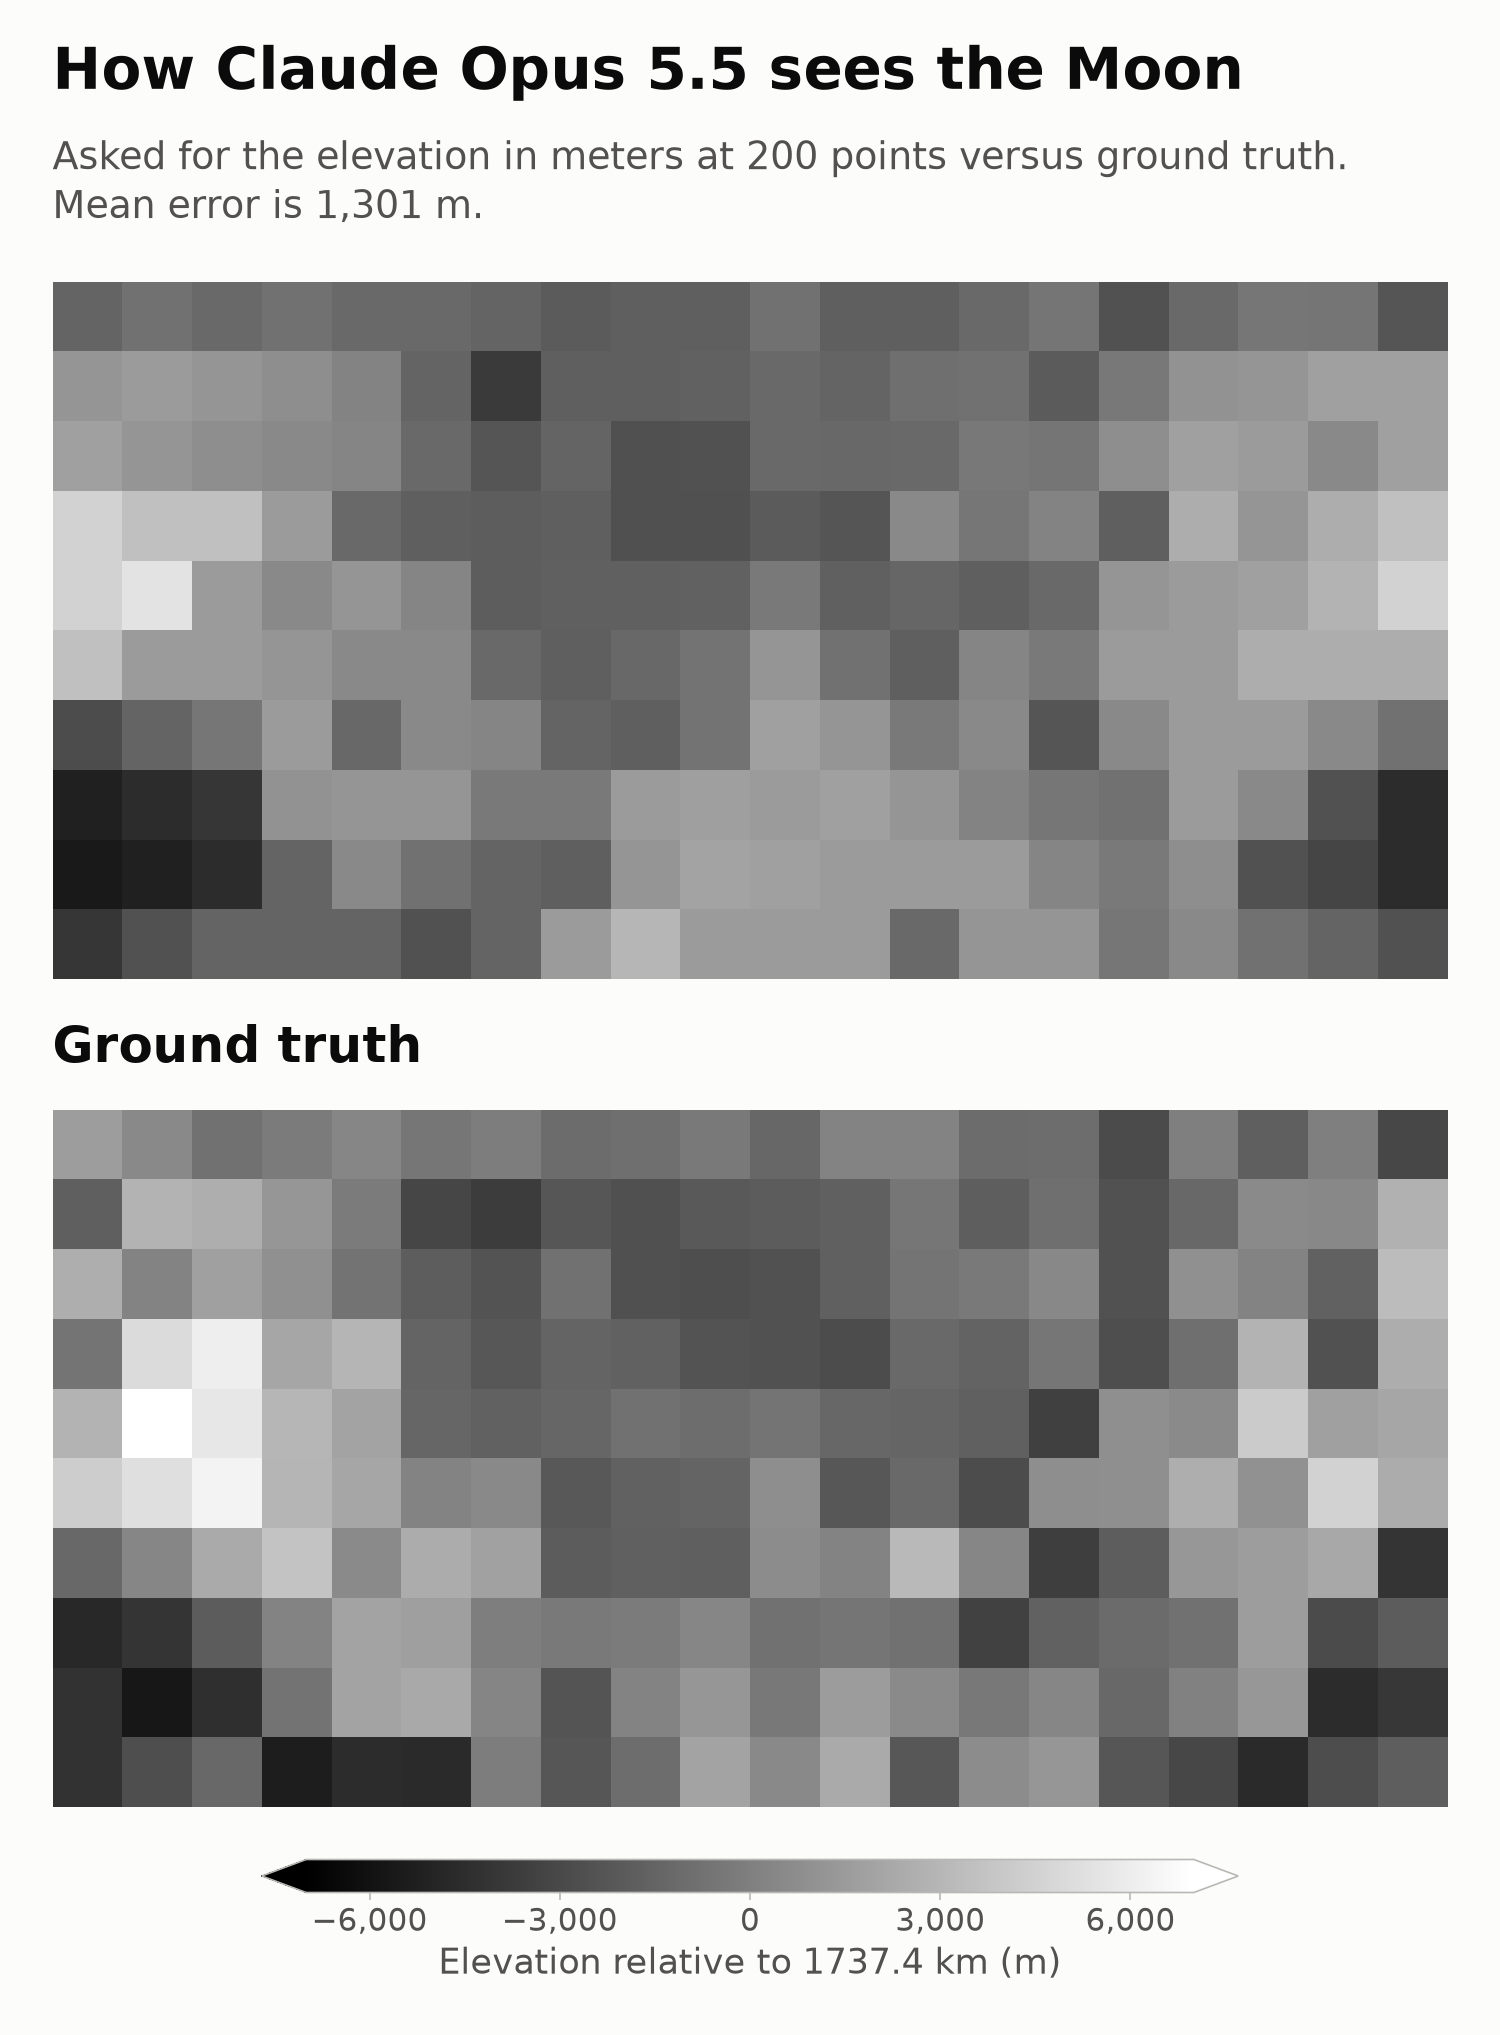
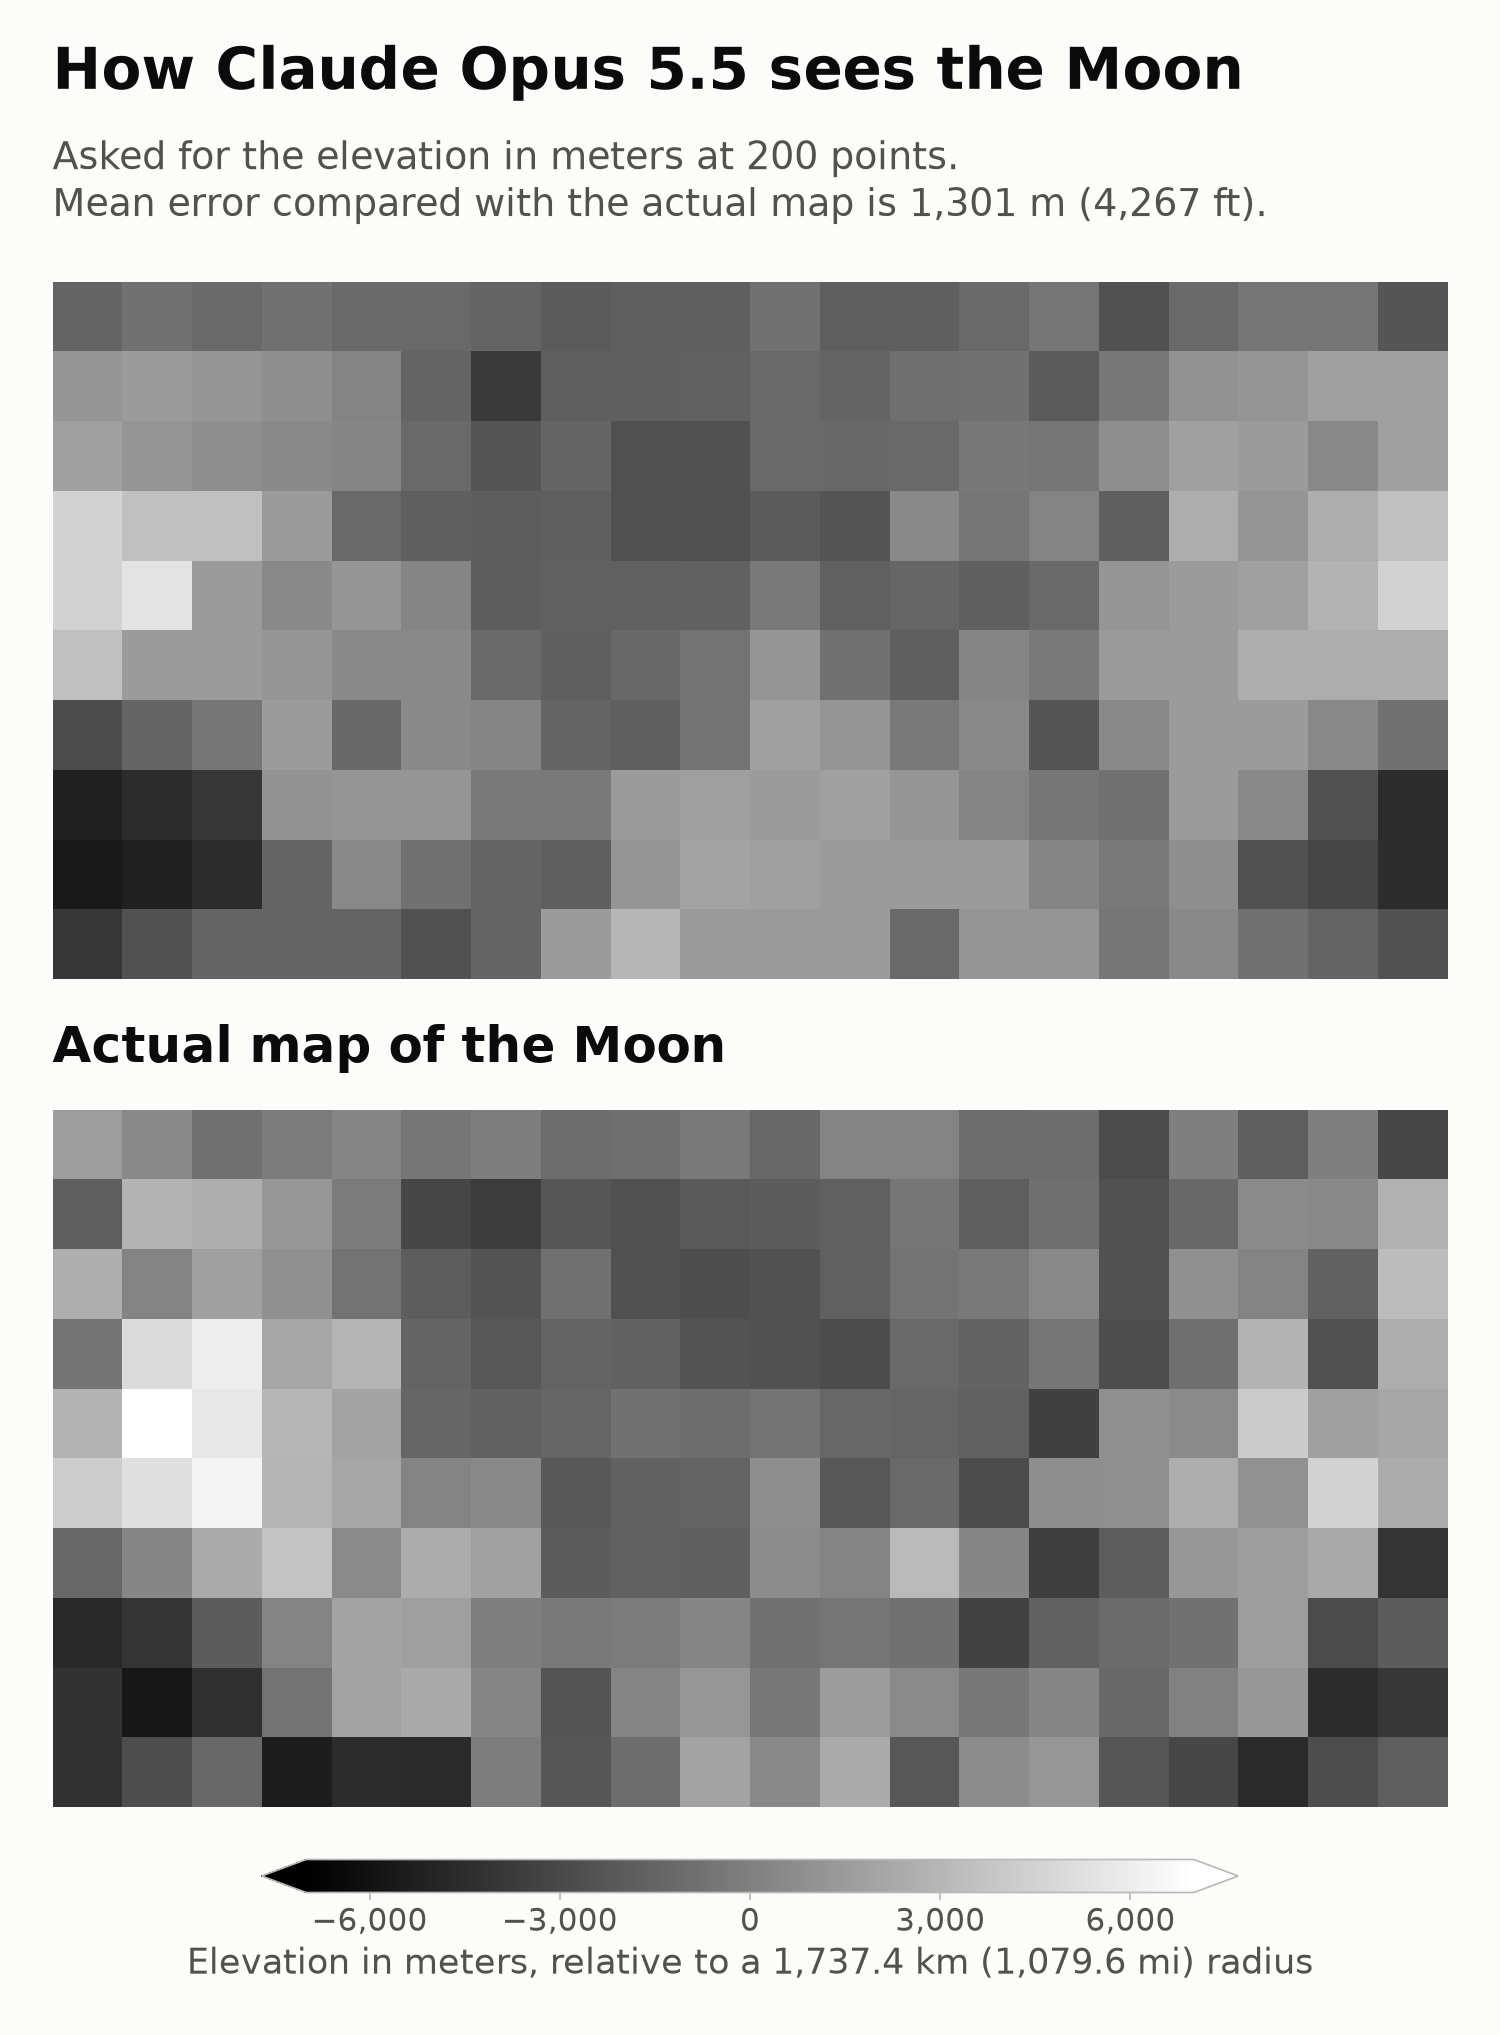
Shareable images: actual map label, feet and miles for US readers

diff --git a/moonmapbench/report.py b/moonmapbench/report.py
@@ -31,6 +31,9 @@ from moonmapbench.query import load_responses, run_dir
 # Fixed color range for every map and every run, so images are comparable.
 # About the 0.5th..99.5th area percentile of LOLA heights is -5.7..+6.8 km.
 ELEV_VMIN, ELEV_VMAX = -7000, 7000
+METERS_PER_FOOT = 0.3048  # for US readers of the shareable image
+KM_PER_MILE = 1.609344
+REFERENCE_RADIUS_KM = 1737.4
 SURFACE = "#fcfcfb"
 TEXT_PRIMARY = "#0b0b0b"
 TEXT_SECONDARY = "#52514e"
@@ -69,11 +72,12 @@ def _draw_map(ax: plt.Axes, image: np.ndarray, title: str, title_size: float):
 
 
 def _add_colorbar(fig: plt.Figure, im, rect: tuple[float, float, float, float],
-                  label_size: float = 9, tick_size: float = 8, ticks: list[int] | None = None) -> None:
+                  label_size: float = 9, tick_size: float = 8, ticks: list[int] | None = None,
+                  label: str = f"Elevation relative to {REFERENCE_RADIUS_KM} km (m)") -> None:
     cbar = fig.colorbar(im, cax=fig.add_axes(rect), orientation="horizontal", extend="both")
     if ticks is not None:
         cbar.set_ticks(ticks, labels=[f"{t:,}".replace("-", "\u2212") for t in ticks])
-    cbar.set_label("Elevation relative to 1737.4 km (m)", color=TEXT_SECONDARY, fontsize=label_size)
+    cbar.set_label(label, color=TEXT_SECONDARY, fontsize=label_size)
     cbar.ax.tick_params(colors=TEXT_SECONDARY, labelsize=tick_size, color=AXIS)
     cbar.outline.set_edgecolor(AXIS)
 
@@ -204,7 +208,9 @@ def draw_stacked(path, panels: list[tuple[str | None, str | None, np.ndarray]], 
         ax.set_axis_off()
     cbar_w = map_w * 0.7
     _add_colorbar(fig, im, ((width - cbar_w) / 2 / width, y(top["cbar"] + 0.22), cbar_w / width, 0.22 / height),
-                  label_size=cbar_label_pt, tick_size=cbar_tick_pt, ticks=[-6000, -3000, 0, 3000, 6000])
+                  label_size=cbar_label_pt, tick_size=cbar_tick_pt, ticks=[-6000, -3000, 0, 3000, 6000],
+                  label=f"Elevation in meters, relative to a {REFERENCE_RADIUS_KM:,} km "
+                        f"({REFERENCE_RADIUS_KM / KM_PER_MILE:,.1f} mi) radius")
     fig.savefig(path, dpi=150, facecolor=SURFACE)
     plt.close(fig)
 
@@ -250,10 +256,12 @@ def main(args: argparse.Namespace) -> None:
                       f"The real Moon (LOLA at {args.res:g}° pixel centres)",
                       pred.reshape(shape), args.res, model_label, metrics["mae_m"], len(points))
 
-    draw_stacked(out / "stacked.png", [(None, None, pred.reshape(shape)), ("Ground truth", None, truth.reshape(shape))],
+    draw_stacked(out / "stacked.png",
+                 [(None, None, pred.reshape(shape)), ("Actual map of the Moon", None, truth.reshape(shape))],
                  f"How {MODEL_NAMES.get(args.model, args.model)} sees the Moon",
-                 f"Asked for the elevation in meters at {len(points):,} points versus ground truth.\n"
-                 f"Mean error is {metrics['mae_m']:,.0f} m.")
+                 f"Asked for the elevation in meters at {len(points):,} points.\n"
+                 f"Mean error compared with the actual map is {metrics['mae_m']:,.0f} m "
+                 f"({metrics['mae_m'] / METERS_PER_FOOT:,.0f} ft).")
 
     print(json.dumps(metrics, indent=2))
     print(f"wrote {out}/metrics.json, points.csv, maps.png, side_by_side.png, side_by_side_same_res.png, stacked.png")

diff --git a/moonmapbench/compare.py b/moonmapbench/compare.py
@@ -35,7 +35,7 @@ def main(args: argparse.Namespace) -> None:
         records = load_responses(run_dir(model, effort) / "responses.jsonl", model, effort)
         pred, _ = collect_predictions(records, points, args.samples)
         panels.append((MODEL_NAMES.get(model, model), f"mean error {np.abs(pred - truth).mean():,.0f} m", pred.reshape(shape)))
-    panels.append(("Ground truth", "NASA LRO laser altimeter", truth.reshape(shape)))
+    panels.append(("Actual map of the Moon", "NASA LRO laser altimeter", truth.reshape(shape)))
 
     efforts = {effort for _, effort in args.runs}
     effort_text = f", at {efforts.pop()} reasoning effort" if len(efforts) == 1 else ""
